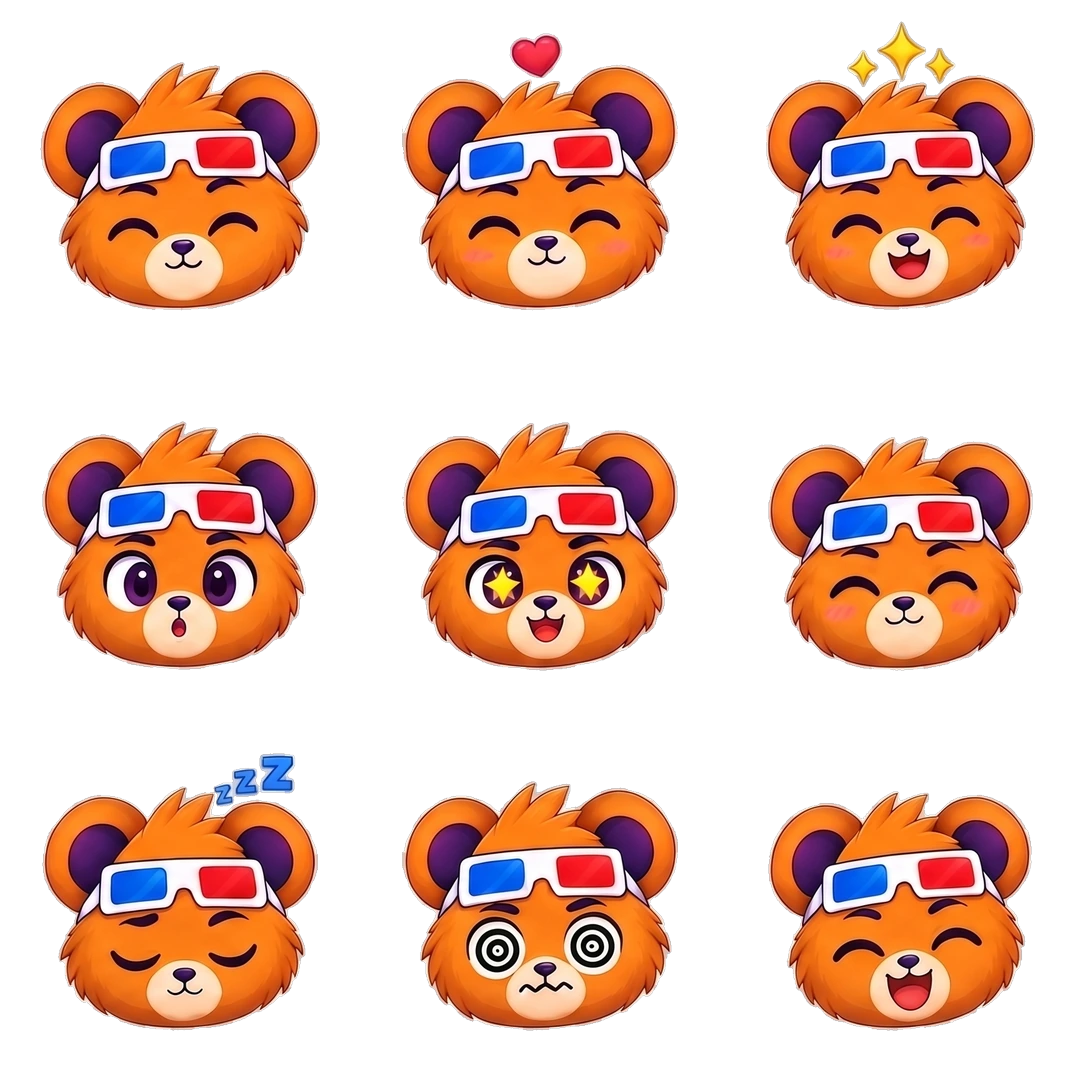
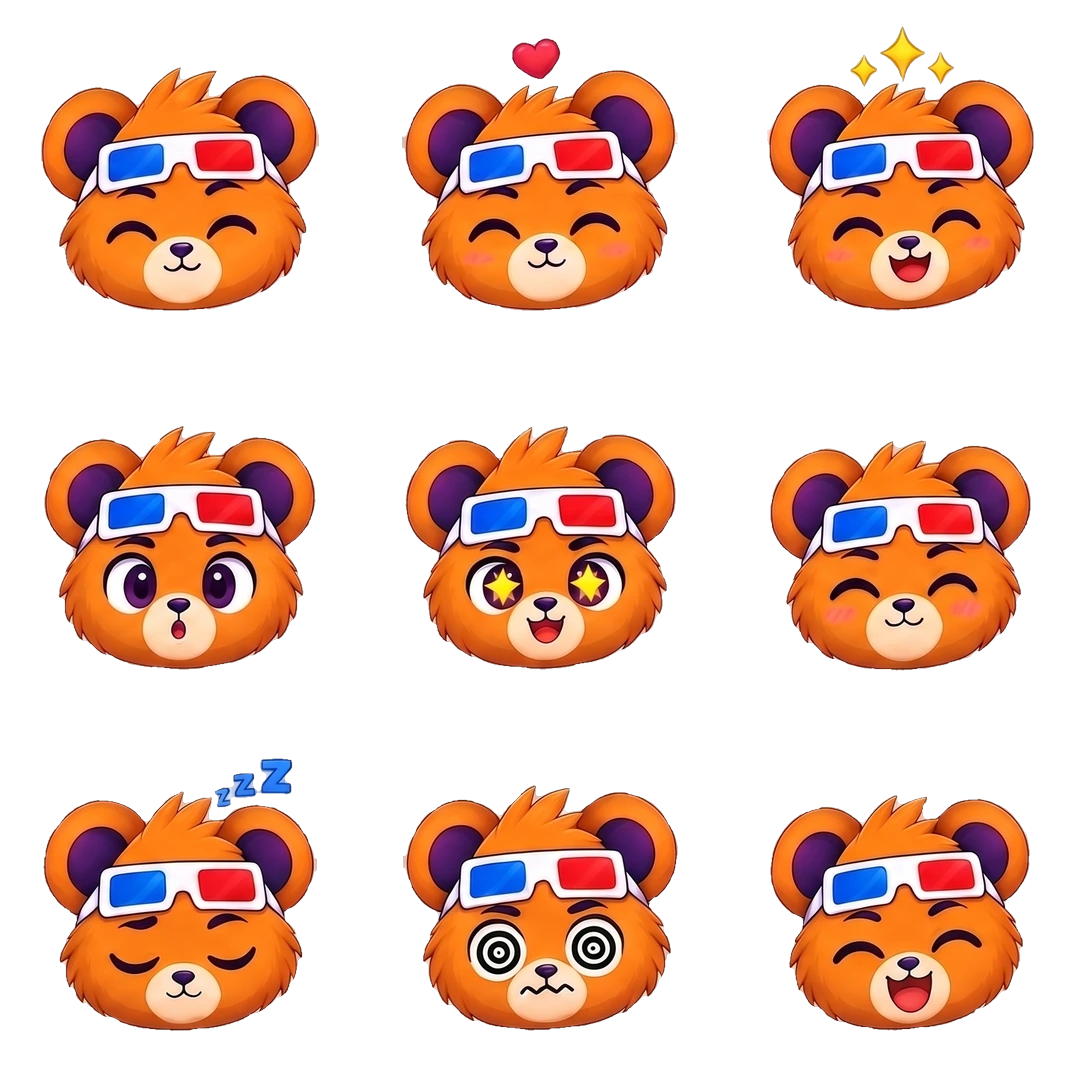
fix(mascot): strip white halo borders and eliminate edge bleeds

diff --git a/execution/build_mascot.py b/execution/build_mascot.py
@@ -61,13 +61,41 @@ def build():
     bg_mask = np.isin(labels, list(border_labels))
 
     # 2. Signed distance transform for antialiasing & defringing
+    # The source artwork contains a 3.5px white sticker halo around the characters.
+    # Contracting by 3.5px strips the white border completely, landing squarely
+    # on the crisp dark brown outline with smooth 1.2px antialiasing.
     dist_out = ndimage.distance_transform_edt(bg_mask)
     dist_in = ndimage.distance_transform_edt(~bg_mask)
     signed_dist = dist_in - dist_out
-    smooth_alpha = np.clip((signed_dist - 0.7) / 1.0, 0.0, 1.0) * 255.0
+    smooth_alpha = np.clip((signed_dist - 3.5) / 1.2, 0.0, 1.0) * 255.0
 
     rgba = np.dstack([arr.astype(np.uint8), smooth_alpha.astype(np.uint8)])
     full_im = Image.fromarray(rgba, "RGBA")
+
+    def clean_cell(cell_img, min_accessory_size=1000):
+        """Erase stray neighboring fragments touching edges while keeping main body & symbols."""
+        a = np.array(cell_img)
+        opaque = a[..., 3] > 40
+        labels, count = ndimage.label(opaque)
+        if count <= 1:
+            return cell_img
+        sizes = ndimage.sum(opaque, labels, range(1, count + 1))
+        main_label = int(np.argmax(sizes)) + 1
+        
+        # Identify components that touch cell borders (bleeds from adjacent cells)
+        border_labels = set(np.unique(np.concatenate([
+            labels[:2, :].ravel(), labels[-2:, :].ravel(),
+            labels[:, :2].ravel(), labels[:, -2:].ravel()
+        ]))) - {0, main_label}
+
+        keep = [main_label]
+        for idx, s in enumerate(sizes):
+            lbl_id = idx + 1
+            if lbl_id != main_label and lbl_id not in border_labels and s > min_accessory_size:
+                keep.append(lbl_id)
+        
+        a[~np.isin(labels, keep), 3] = 0
+        return Image.fromarray(a, "RGBA")
 
     # 3. Extract 9 Directions (Columns 0, 1, 2)
     print("Processing 9 direction cells...")
@@ -76,24 +104,9 @@ def build():
         for c in range(3):
             x0, x1 = X_SPLITS[c], X_SPLITS[c + 1]
             y0, y1 = Y_SPLITS[r], Y_SPLITS[r + 1]
-            cell = full_im.crop((x0, y0, x1, y1))
+            cell = clean_cell(full_im.crop((x0, y0, x1, y1)), min_accessory_size=1000)
 
-            # Filter out tiny stray specks < 1000 px
             a = np.array(cell)[..., 3]
-            opaque = a > 50
-            lbl, cnt = ndimage.label(opaque)
-            if cnt > 1:
-                sizes = ndimage.sum(opaque, lbl, range(1, cnt + 1))
-                main_label = int(np.argmax(sizes)) + 1
-                keep = [main_label]
-                for idx, s in enumerate(sizes):
-                    if s > 1000:
-                        keep.append(idx + 1)
-                cell_arr = np.array(cell)
-                cell_arr[~np.isin(lbl, keep), 3] = 0
-                cell = Image.fromarray(cell_arr, "RGBA")
-                a = cell_arr[..., 3]
-
             ys, xs = np.where(a > 50)
             content = cell.crop((xs.min(), ys.min(), xs.max() + 1, ys.max() + 1))
 
@@ -114,23 +127,9 @@ def build():
         for c in range(3, 6):
             x0, x1 = X_SPLITS[c], X_SPLITS[c + 1]
             y0, y1 = Y_SPLITS[r], Y_SPLITS[r + 1]
-            cell = full_im.crop((x0, y0, x1, y1))
+            cell = clean_cell(full_im.crop((x0, y0, x1, y1)), min_accessory_size=600)
 
             a = np.array(cell)[..., 3]
-            opaque = a > 50
-            lbl, cnt = ndimage.label(opaque)
-            if cnt > 1:
-                sizes = ndimage.sum(opaque, lbl, range(1, cnt + 1))
-                main_label = int(np.argmax(sizes)) + 1
-                keep = [main_label]
-                for idx, s in enumerate(sizes):
-                    if s > 800:  # Preserves heart, stars, and zzz
-                        keep.append(idx + 1)
-                cell_arr = np.array(cell)
-                cell_arr[~np.isin(lbl, keep), 3] = 0
-                cell = Image.fromarray(cell_arr, "RGBA")
-                a = cell_arr[..., 3]
-
             lbl_clean, cnt_clean = ndimage.label(a > 50)
             sizes_clean = ndimage.sum(a > 50, lbl_clean, range(1, cnt_clean + 1))
             main_idx = int(np.argmax(sizes_clean)) + 1
